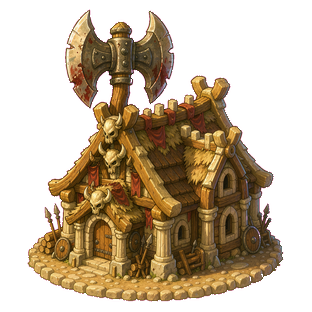
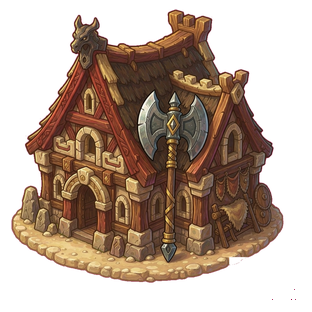
feat(art): 兵营V2去房屋化全量接入（11张放量含D档4张补做+5基准）

diff --git a/tools/remove-bg-artgen-magenta.py b/tools/remove-bg-artgen-magenta.py
@@ -1,0 +1,135 @@
+#!/usr/bin/env python3
+# -*- coding: utf-8 -*-
+"""ImageGen 暗玫红底专用抠底（V2 去房屋化批次）。
+
+背景事实：混元出图在纯品红提示下，本批实际出的是暗玫红底 (约 142,54,73)，
+与上一批亮玫红 (230,17,144) / 蓝紫 (48,65,154) 都不同。通用脚本
+remove-bg-artgen.py 的 near 容差 52 会把主体深棕木墙 (约 89,56,49) 误判为背景
+（g 通道仅差 2），形成白色破洞。本脚本改用严格 tol 的连通域抠底。
+
+三步：
+1) 从四边 flood fill，严格容差 tol 只挖连通到边缘的背景；
+2) 右下角水印（浅灰白/粉白，非玫红）连通块挖成透明；
+3) 裁包围盒 + 等比缩放居中 + 轻羽化。
+
+用法: python3 tools/remove-bg-artgen-magenta.py <input> <output> [target=312] [tol=24]
+纯 Pillow 实现。
+"""
+import sys
+from collections import deque
+from PIL import Image, ImageFilter
+
+
+def is_magenta_bg(r, g, b, bg, tol):
+    """暗玫红背景：接近采样色，且满足红显著高于绿的色相约束。"""
+    near = abs(r - bg[0]) < tol and abs(g - bg[1]) < tol and abs(b - bg[2]) < tol
+    magenta_hue = r > g + 45 and r > 100 and b > g
+    return near and magenta_hue
+
+
+def is_watermark(r, g, b, bg):
+    """右下角水印：浅灰白/粉白/浅粉字，或明显亮于暗玫红背景的杂色。
+
+    该脚本只在 x>0.76w,y>0.85h 的最右下角搜索，主体底座已缩到安全边距内，
+    此区域不会有主体像素，故可宽松判定，包括水印里的粉红描边。
+    """
+    light = r > 120 and g > 80 and b > 80 and max(r, g, b) - min(r, g, b) < 115
+    bright = r > 150 and g > 75 and b > 75  # 水印粉色描边/白字
+    return light or bright
+
+
+def remove_bg(src, dst, target=312, tol=24, closed=False):
+    im = Image.open(src).convert('RGB')
+    w, h = im.size
+    px = im.load()
+
+    # 1) 采样背景色
+    pts = [(2, 2), (w-3, 2), (2, h-3), (w-3, h-3),
+           (w//2, 2), (w//2, h-3), (2, h//2), (w-3, h//2)]
+    samples = [px[x, y] for x, y in pts]
+    bg = tuple(sum(c[i] for c in samples)//len(samples) for i in range(3))
+
+    # 1b) 封闭区背景清除（可选）：全图按严格玫红色相挖，专清铁环/拱洞等
+    #     不与边缘连通的背景残留。色相阈值 r-g>50 保证暖棕主体(r-g≈33)不被误伤。
+    closed_mask = bytearray(w*h)
+    if closed:
+        for y in range(h):
+            row = y*w
+            for x in range(w):
+                r, g, b = px[x, y]
+                if r > 125 and r - g > 50 and b > g and b > 60:
+                    closed_mask[row+x] = 1
+
+    # 2) 四边 flood fill 连通背景
+    visited = bytearray(w*h)
+    q = deque()
+    for x in range(w):
+        for y in (0, h-1):
+            i = y*w+x
+            if not visited[i] and is_magenta_bg(*px[x, y], bg, tol):
+                visited[i] = 1
+                q.append((x, y))
+    for y in range(h):
+        for x in (0, w-1):
+            i = y*w+x
+            if not visited[i] and is_magenta_bg(*px[x, y], bg, tol):
+                visited[i] = 1
+                q.append((x, y))
+    while q:
+        x, y = q.popleft()
+        for nx, ny in ((x+1, y), (x-1, y), (x, y+1), (x, y-1)):
+            if 0 <= nx < w and 0 <= ny < h:
+                i = ny*w+nx
+                if not visited[i] and is_magenta_bg(*px[nx, ny], bg, tol):
+                    visited[i] = 1
+                    q.append((nx, ny))
+
+    # 3) 右下角水印（浅灰白连通块），只清 x>0.76w,y>0.85h，面积上限防误伤
+    # 最右下角 x>0.76w,y>0.85h 内没有主体（底座已缩到安全边距内），
+    # 该区域所有非背景像素一律视为水印（含淡粉抗锯齿边），直接挖掉。
+    x0, y0 = int(w*0.76), int(h*0.85)
+    wm_mask = bytearray(w*h)
+    for y in range(y0, h):
+        row = y*w
+        for x in range(x0, w):
+            r, g, b = px[x, y]
+            if not is_magenta_bg(r, g, b, bg, 30):
+                wm_mask[row+x] = 1
+
+    # 4) alpha
+    alpha = Image.new('L', (w, h), 255)
+    ap = alpha.load()
+    for y in range(h):
+        row = y*w
+        for x in range(w):
+            if visited[row+x] or wm_mask[row+x] or closed_mask[row+x]:
+                ap[x, y] = 0
+    alpha = alpha.filter(ImageFilter.GaussianBlur(0.6))
+
+    # 5) 裁包围盒 + 等比缩放居中
+    bbox = alpha.getbbox()
+    if bbox:
+        im = im.crop(bbox)
+        alpha = alpha.crop(bbox)
+    cw, ch = im.size
+    scale = min(target/cw, target/ch) * 0.94
+    nw, nh = int(cw*scale), int(ch*scale)
+    im = im.resize((nw, nh), Image.LANCZOS)
+    alpha = alpha.resize((nw, nh), Image.LANCZOS)
+    out = Image.new('RGBA', (target, target), (0, 0, 0, 0))
+    out.paste(im, ((target-nw)//2, (target-nh)//2))
+    fa = Image.new('L', (target, target), 0)
+    fa.paste(alpha, ((target-nw)//2, (target-nh)//2))
+    out.putalpha(fa)
+    out.save(dst)
+
+
+if __name__ == '__main__':
+    if len(sys.argv) < 3:
+        print(__doc__)
+        sys.exit(1)
+    t = int(sys.argv[3]) if len(sys.argv) > 3 else 312
+    tol = int(sys.argv[4]) if len(sys.argv) > 4 else 24
+    closed = len(sys.argv) > 5 and sys.argv[5] == '--closed'
+    remove_bg(sys.argv[1], sys.argv[2], t, tol, closed)
+    print(f'{sys.argv[1]} -> {sys.argv[2]} (tol={tol}, closed={closed})')

diff --git a/tools/expand-barracks-v2-prompts.py b/tools/expand-barracks-v2-prompts.py
@@ -3,7 +3,7 @@
 """展开兵营 V2「去房屋化 + 形态精确化」方案的完整 prompt。
 用法:
   python tools/expand-barracks-v2-prompts.py <输出json路径> [编号,编号,...]
-默认展开方案里全部 12 张需出图的（A/B/C 档，D 档 02/12/15/27 不出图）。
+默认展开方案里全部 16 张（A/B/C 档 + 2026-11-26 追加的 D 档 4 张补做）。
 风格锚点段从方案文档逐字抽取，避免手抄漂移。
 """
 import json
@@ -14,9 +14,9 @@ from pathlib import Path
 ROOT = Path(__file__).resolve().parent.parent
 DOC = ROOT / "docs/art/ART-BARRACKS-V2-NONBUILDING-REDRAW.md"
 
-# 需出图的 12 座（D 档不动）
-SCENE_NUMS = ["11", "16", "19", "24", "37", "38", "39", "40"]  # 段1A
-BUILD_NUMS = ["09", "10", "23", "30"]                            # 段1
+# 需出图的 16 座（D 档 02/12/15/27 于 2026-11-26 追加补做）
+SCENE_NUMS = ["02", "11", "12", "15", "16", "19", "24", "27", "37", "38", "39", "40"]  # 段1A
+BUILD_NUMS = ["09", "10", "23", "30"]                                                        # 段1
 
 def block(doc, after):
     i = doc.index(after)
@@ -63,6 +63,10 @@ BUILD_FRAME = (
 # 槽位表
 DATA = {
     # --- 段1A 场景模板 ---
+    "02": dict(name="弓箭手-露天箭术靶场", SCENE="an open-air Western fantasy archery range with straw butt targets, arrow racks and a shooting mound, absolutely no stone tower and no roof", MAT="straw targets, timber arrow racks and rope", ACC="deep red", SIG="a giant recurve longbow planted upright at the center of the range", PROP="straw butt targets and quivers of arrows"),
+    "12": dict(name="战士-露天校场", SCENE="an open-air warriors training yard with a sand ground, weapon racks and rows of wooden practice dummies, absolutely no house and no roof", MAT="sand, timber practice dummies and iron weapons", ACC="brick red", SIG="a giant wooden training dummy holding a round shield and a short sword", PROP="weapon racks and stacked sandbags"),
+    "15": dict(name="卫兵-露天岗哨门", SCENE="an open-air Western fantasy guard checkpoint gate with a low stone base, timber gate posts, a broken portcullis and a small open sentry stand, absolutely no roof and no enclosed room", MAT="stone base, heavy timber and iron", ACC="limestone blue grey", SIG="a giant upright halberd planted beside a round guard shield at the gate", PROP="broken portcullis bars and spear racks"),
+    "27": dict(name="刽子手-露天刑台", SCENE="an open-air execution scaffold with a dark timber platform, crimson drapery, a chopping block and an axe rack, absolutely no house and no roof", MAT="dark timber, crimson cloth and iron", ACC="dark wine red", SIG="a gigantic broad executioner axe blade driven into the chopping block", PROP="iron chains and a second smaller axe rack"),
     "11": dict(name="骷髅兵-露天骨场", SCENE="open-air bone field on cracked earth with scattered crooked tombstones, bone piles and broken swords, absolutely no building", MAT="bleached bones, cracked earth and grey stone rubble", ACC="bone white", SIG="a gigantic skull with deeply sunken eye sockets rising from the bone pile", PROP="scattered bones and broken blades"),
     "16": dict(name="海盗-完整大帆船", SCENE="a complete large sailing ship beached on the ground with a full hull, a tall mast and a billowing square sail, a Western fantasy pirate vessel", MAT="old timber, rope and canvas sail", ACC="sea blue", SIG="a gigantic carved ship figurehead with a billowing main sail above it as the focal point", PROP="barrels and coiled rope"),
     "19": dict(name="长枪兵-驻扎营地", SCENE="a military encampment of canvas tents with a wooden palisade fence and a campfire, absolutely no stone tower", MAT="canvas tents, timber palisade and iron spear racks", ACC="warm bronze", SIG="a row of giant upright spears with level spearpoints planted at the camp center", PROP="a campfire and wooden crates"),

diff --git a/tools/install-barracks-v2.py b/tools/install-barracks-v2.py
@@ -1,0 +1,56 @@
+#!/usr/bin/env python3
+# -*- coding: utf-8 -*-
+"""把 V2 去房屋化批次的 16 张验收通过图覆盖到 assets/buildings/。
+
+16 张 = 5 张基准(11/16/19/38/40) + 7 张放量(09/10/23/24/30/37/39)
+       + 4 张 D 档补做(02/12/15/27)。其余 24 张保持工程现状不动。
+覆盖前先备份这 16 张原图到 .workbuddy/backups/pre-v2-nonbuilding-<日期>/。
+
+用法: python3 tools/install-barracks-v2.py <cutout_dir> <project_root>
+"""
+import shutil
+import sys
+from datetime import datetime
+from pathlib import Path
+from PIL import Image
+
+NUMS = ['02', '09', '10', '11', '12', '15', '16', '19',
+        '23', '24', '27', '30', '37', '38', '39', '40']
+
+
+def main():
+    cutout = Path(sys.argv[1])
+    root = Path(sys.argv[2])
+    assets = root / 'assets' / 'buildings'
+    backup = root / '.workbuddy' / 'backups' / ('pre-v2-nonbuilding-' + datetime.now().strftime('%Y%m%d'))
+    backup.mkdir(parents=True, exist_ok=True)
+
+    for n in NUMS:
+        src = cutout / f'barracks_unit_{n}.png'
+        assert src.exists(), f'缺少 {src}'
+        im = Image.open(src)
+        assert im.size == (312, 312) and im.mode == 'RGBA', f'{src} 规格错误 {im.size} {im.mode}'
+
+    backed = 0
+    for n in NUMS:
+        dst = assets / f'barracks_unit_{n}.png'
+        if dst.exists():
+            shutil.copy2(dst, backup / dst.name)
+            backed += 1
+
+    total = 0
+    for n in NUMS:
+        src = cutout / f'barracks_unit_{n}.png'
+        dst = assets / f'barracks_unit_{n}.png'
+        shutil.copy2(src, dst)
+        total += dst.stat().st_size
+        im = Image.open(dst)
+        assert im.size == (312, 312) and im.mode == 'RGBA', f'{dst} 覆盖后规格错误'
+
+    print(f'backed up {backed} originals -> {backup}')
+    print(f'installed {len(NUMS)} images -> {assets}')
+    print(f'installed size: {total/1024:.1f} KB')
+
+
+if __name__ == '__main__':
+    main()

diff --git a/docs/art/ART-BARRACKS-V2-NONBUILDING-REDRAW.md b/docs/art/ART-BARRACKS-V2-NONBUILDING-REDRAW.md
@@ -1,8 +1,9 @@
 # 占地之王 · 兵营 V2「去房屋化 + 形态精确化」定向重绘方案
 
-> 状态：**方案待确认**。16 座定向重绘，先出 5 张基准确认「去房屋化」效果，确认后放量 11 张。
+> 状态：**基准已确认（2026-11-25），放量中（2026-11-26）**。16 座定向重绘，5 张基准通过，剩余 7 张放量 + D 档 4 张补做。
 > 需求原话：「弓箭手、骑士（改为马厩）、狂战士（北欧风格）、骷髅兵（完全舍弃砖瓦房屋表现）、长枪兵（改为类似驻扎营地）、海盗（改为船样式）、卫兵、战士、战车（移除轮盘的内容）、驯兽师（舍弃砖瓦房屋）、刽子手、十字军（十字添加盾牌）、凤凰（完全舍弃砖瓦房屋）、幼龙（完全舍弃砖瓦房屋）、战争泰坦（完全舍弃砖瓦房屋）、古龙（西方龙，完全舍弃砖瓦房屋）」
-> 日期：2026-11-25
+> 补充指令（2026-11-26）：「放剩余7张和D档的4张也要重做」——D 档 4 张由「保持不变」改为「补做」，按同一去房屋化标准执行。
+> 日期：2026-11-25（2026-11-26 更新 D 档）
 > 前置（已交付、风格锚点来源）：`docs/art/ART-BARRACKS-WESTERN-FANTASY-REDRAW.md`（西幻去中式，0198836）
 
 ---
@@ -18,9 +19,9 @@
 | **A 档 · 完全舍弃砖瓦房屋** | 「完全舍弃砖瓦房屋表现」 | 11 / 37 / 38 / 39 / 40 | 零砖墙、零瓦顶、零封闭房屋；改为纯自然场景（露天骨场/树枝巢/岩洞蛋窟/巨岩台/西方龙窟） |
 | **B 档 · 舍弃房屋（保留围栏/构筑）** | 「舍弃砖瓦房屋」 | 24 | 去掉房屋，保留木栅+铁笼的野外兽栏 |
 | **C 档 · 形态精确化** | 「改为马厩/营地/船样式/移除轮盘/十字加盾牌/北欧风格」 | 09 / 19 / 16 / 23 / 30 / 10 | 主体形态按用户字面重做 |
-| **D 档 · 保持不变** | 无修改要求 | 02 / 12 / 15 / 27 | 沿用已交付西幻版，一个像素不动 |
+| **D 档 · 补做（2026-11-26 新增）** | 用户追加「D 档 4 张也要重做」 | 02 / 12 / 15 / 27 | 按同族冻结 + 去房屋化标准重做，形态升级为露天靶场/校场/岗哨门/刑台，不再是「保持不变」 |
 
-**先出 5 张跨档基准**：40 古龙（A 档，西方龙窟）、11 骷髅兵（A 档，露天骨场）、16 海盗（C 档，完整船形）、19 长枪兵（C 档，驻扎营地）、38 幼龙（A 档，岩洞蛋窟）。覆盖「去房屋化」的三种自然场景 + 两种形态替换，确认后放量剩余 11 张。
+**5 张跨档基准已出并通过**：40 古龙（A 档，西方龙窟）、11 骷髅兵（A 档，露天骨场）、16 海盗（C 档，完整船形）、19 长枪兵（C 档，驻扎营地）、38 幼龙（A 档，岩洞蛋窟）。2026-11-26 放量剩余 7 张 + D 档 4 张，共 11 张。
 
 ---
 
@@ -28,24 +29,24 @@
 
 | 编号 | 兵种 | 当前形态 | 用户要求 | 差距 |
 |---|---|---|---|---|
-| 02 | 弓箭手 | 石砌箭塔+锥顶 | 保持 | 无 |
+| 02 | 弓箭手 | 石砌箭塔+锥顶 | **补做：露天靶场** | 石塔+锥顶属封闭房屋，重做为露天箭术靶场（草靶+箭垛+巨型长弓） |
 | 09 | 骑士 | 石砌马厩+马蹄铁马头 | 改为马厩 | 已有马厩元素但仍是封闭房屋感，需强化开放式马棚/马匹 |
 | 10 | 狂战士 | 维京长屋+双刃斧 | 北欧风格 | 有维京感但金瓦过重，需强化龙骨饰/符文/兽皮/深木色 |
 | 11 | 骷髅兵 | 骨白哥特教堂（石墙+尖顶+拱窗） | **完全舍弃砖瓦房屋** | 重做：封闭建筑→露天骨场 |
-| 12 | 战士 | 木栅训练场 | 保持 | 无 |
-| 15 | 卫兵 | 石门楼+闸栅+长戟 | 保持 | 无 |
+| 12 | 战士 | 木栅训练场 | **补做：露天校场** | 强化沙地校场+兵器架+木人桩阵，去封闭感 |
+| 15 | 卫兵 | 石门楼+闸栅+长戟 | **补做：露天岗哨门** | 石门楼改开放式城门关卡+岗亭，无屋顶，巨型长戟更突出 |
 | 16 | 海盗 | 翻覆船壳作顶+桅杆旗 | 改为船样式 | 重做：翻覆船顶→完整船身+桅杆+帆 |
 | 19 | 长枪兵 | 方石塔+三矛尖 | 改为驻扎营地 | 重做：石塔→帐篷营栅+枪架 |
 | 23 | 战车 | 罗马竞技场+巨型车轮 | 移除轮盘内容 | 保留竞技场，去掉巨型车轮，改用战车/旗帜为特征物 |
 | 24 | 驯兽师 | 多层石木屋+铁栏兽笼 | 舍弃砖瓦房屋 | 重做：房屋→纯野外兽栏（保留铁笼） |
-| 27 | 刽子手 | 高木台+暗红布幔+斧刃 | 保持 | 无 |
+| 27 | 刽子手 | 高木台+暗红布幔+斧刃 | **补做：露天刑台** | 强化断头台+斧架+血色木台，归类露天场景，去小屋感 |
 | 30 | 十字军 | 石堡+墙上十字盾浮雕 | 十字添加盾牌 | 强化：墙面浮雕→独立巨型十字盾牌 |
 | 37 | 凤凰 | 石塔+火焰蛋 | **完全舍弃砖瓦房屋** | 重做：石塔→纯树枝巨巢 |
 | 38 | 幼龙 | 石塔+绿蛋 | **完全舍弃砖瓦房屋** | 重做：石塔→纯岩洞蛋窟 |
 | 39 | 战争泰坦 | 西式石屋+石拳 | **完全舍弃砖瓦房屋** | 重做：石屋→纯巨岩台+断柱+石拳 |
 | 40 | 古龙 | 石砌龙殿+龙头石雕 | 西方龙 + **完全舍弃砖瓦房屋** | 重做：龙殿→纯龙窟（龙骨拱+龙蛋+西式龙头骸骨） |
 
-**评审结论：A/B/C 档重做，D 档通过。** 依据用户明确的形态指令，不做主观发挥。
+**评审结论：A/B/C 档重做，D 档原判通过；2026-11-26 用户追加指令后 D 档 4 张一并补做。** 依据用户明确的形态指令，不做主观发挥。
 
 ---
 
@@ -111,21 +112,21 @@ house, building, cottage, cabin, brick wall, stone wall, masonry wall, pitched r
 > 模板归属按「形态本身是否露天」定，不严格按档位字母：
 > - **段 1A 场景模板 + 去房屋 Negative**：11 / 16 / 19 / 24 / 37 / 38 / 39 / 40（8 座。含 C 档的 16 船、19 营地——船与帐篷营地本就是露天场景，不是 house）
 > - **段 1 建筑模板 + 原 Negative**：09 马厩 / 10 北欧长屋 / 23 竞技场 / 30 石堡（4 座）
-> - **D 档不出图**：02 / 12 / 15 / 27
+> - **D 档补做出图**：02 / 12 / 15 / 27（露天靶场/校场/岗哨门/刑台，走段 1A 场景模板）
 
 | # | 兵种 | 档 | 主体场景（改写要点） | 巨型特征物 | 识别色 |
 |---|---|---|---|---|---|
-| 02 | 弓箭手 | D | 保持不变（石砌箭塔+锥顶） | 巨型长弓 | 深红 |
+| 02 | 弓箭手 | D·补做 | **露天箭术靶场**：草靶+箭垛+箭筒，无石塔无屋顶 | 巨型长弓 | 深红 |
 | 09 | 骑士 | C | 开放式木构马厩：马棚隔栏+拴马桩+草料槽+马匹，**保留石基** | 巨型马蹄铁+马头 | 骑士蓝 |
 | 10 | 狂战士 | C | 北欧维京营地：深色粗木+龙骨屋脊饰+符文石+兽皮兽骨，去金瓦 | 巨型双刃战斧 | 暗红 |
 | 11 | 骷髅兵 | A | **露天骨场**：无墙无顶，散落墓碑+骨堆+断剑，地面骨白碎石 | 巨型骷髅头（眼窝深凹） | 骨白 |
-| 12 | 战士 | D | 保持不变（木栅训练场） | 木人桩 | 砖红 |
-| 15 | 卫兵 | D | 保持不变（石门楼+长戟） | 巨型长戟 | 石灰蓝 |
+| 12 | 战士 | D·补做 | **露天校场**：沙地+兵器架+木人桩阵，无房屋 | 巨型木人桩（持剑盾） | 砖红 |
+| 15 | 卫兵 | D·补做 | **露天岗哨门**：开放式城门关卡+岗亭+闸栅，无屋顶 | 巨型长戟+圆盾 | 石灰蓝 |
 | 16 | 海盗 | C | **完整船形**：陆地上的大帆船（船身+桅杆+张开的风帆+船首像），非翻覆船顶 | 巨型船首像/主帆（去掉原船锚主特征） | 海蓝 |
 | 19 | 长枪兵 | C | **驻扎营地**：军用帐篷群+木栅营墙+篝火+枪架，无石塔 | 一排竖立的巨型长枪（枪尖齐平） | 青铜 |
 | 23 | 战车 | C | 罗马竞技场保留（沙地+看台+拱门），**移除巨型车轮** | 巨型罗马战车整车+高扬蓝旗 | 战红 |
 | 24 | 驯兽师 | B | **纯野外兽栏**：木桩栅栏+铁笼+铁链+鞍具，无房屋无屋顶 | 巨型弯曲兽角 | 土橙 |
-| 27 | 刽子手 | D | 保持不变（高木台+斧刃） | 巨型斧刃 | 暗酒红 |
+| 27 | 刽子手 | D·补做 | **露天刑台**：断头台+斧架+暗红木台，无房屋 | 巨型斧刃 | 暗酒红 |
 | 30 | 十字军 | C | 石堡保留，**墙上十字浮雕改为独立巨型十字盾牌**立在堡前 | 巨型十字盾（白底红十字） | 圣白金+红 |
 | 37 | 凤凰 | A | **纯树枝巨巢**：悬崖边巨巢+火焰羽饰+炭火，无石墙无瓦顶 | 巢中巨型火纹蛋+火焰羽冠 | 暖橙红 |
 | 38 | 幼龙 | A | **纯岩洞蛋窟**：天然岩石凹窟+藤蔓+金光，无砖瓦无房屋 | 洞口巨型龙鳞蛋（翠绿带金纹） | 翠绿+金 |
@@ -141,9 +142,10 @@ house, building, cottage, cabin, brick wall, stone wall, masonry wall, pitched r
 | 批次 | 数量 | 内容 | 校验 |
 |---|---|---|---|
 | 基准 | 5 | 40 龙窟 / 11 骨场 / 16 船 / 19 营地 / 38 蛋窟 | 出图→抠底→拼版→**用户确认去房屋化是否到位** |
-| 放量 | 11 | 09 / 10 / 23 / 24 / 30 / 37 / 39 + D 档不动（02/12/15/27 不出图，直接沿用） | 每批拼版 + 10% 缩略图 + 立绘呼应检查 |
+| 放量 | 7 | 09 / 10 / 23 / 24 / 30 / 37 / 39 | 每批拼版 + 10% 缩略图 + 立绘呼应检查 |
+| D 档补做 | 4 | 02 / 12 / 15 / 27（2026-11-26 用户追加） | 同上去房屋化验收 |
 
-- 实际出图 5+7=12 张（16 座里 4 座 D 档不动），成本 ≈ 60–120 积分。
+- 实际出图 5+7+4=16 张（16 座全量重做），成本 ≈ 80–160 积分。
 - 体积：换图不换尺寸，40 张合计仍约 4.5MB，无预算风险。
 - 工程零改动：文件名 / manifest key / 白名单 / 接线 / 测试全不动。
 - 备份：覆盖前整目录备份到 `.workbuddy/backups/pre-v2-nonbuilding-YYYYMMDD/`。
@@ -155,7 +157,7 @@ house, building, cottage, cabin, brick wall, stone wall, masonry wall, pitched r
 1. **A 档去房屋（最高优先级）**：11/37/38/39/40 五张放大检查，不得出现砖墙、瓦顶、封闭房屋、窗、门；必须是露天骨场/巢/岩窟/岩台/龙窟。
 2. **西方龙明确**：40 号龙头必须有角、张口、翼骨等西式龙特征，非中式龙（沿用 Negative 的 Chinese dragon 排除）。
 3. **C 档形态到位**：09 马厩（马匹元素）、16 完整船（帆+船身）、19 营地（帐篷）、23 无巨型车轮、30 独立十字盾、10 北欧深色木+龙骨饰。
-4. **D 档零改动**：02/12/15/27 四张 MD5 与交付前一致。
+4. **D 档补做到位**：02 露天靶场（无石塔）/12 露天校场（无房屋）/15 露天岗哨门（无屋顶）/27 露天刑台（无小屋），四张均放大确认去房屋化。
 5. **去中式不回潮**（沿用上一轮）：任何图不得重新长出翘角飞檐/宝塔。
 6. 规格 40/40、剪影可辨、缩略图、风格统一、无水印/背景残留。
 7. 回归 123/123。
@@ -163,7 +165,7 @@ house, building, cottage, cabin, brick wall, stone wall, masonry wall, pitched r
 ## 八、待确认项
 
 **假设：仅用户点名的 16 座重绘，其余 24 座（含上一轮已交付的 14 座）保持不动（待确认）**
-**假设：D 档 4 座（02/12/15/27）因用户未提修改要求，判定为保持、不出图（待确认）**
-**假设：先出 5 张基准确认「去房屋化」效果，再放量 7 张（待确认）**
-**假设：A 档保留椭圆碎石底座作为同族锚（待确认）**
+**假设：D 档 4 座按「露天场景化」补做——用户 2026-11-26 只说「也要重做」未给具体形态，沿用 V2 去房屋化主线（待确认）**
+**假设：5 张基准已确认，剩余 7 张 + D 档 4 张一次性放量（已执行）**
+**假设：A 档及 D 档补做保留椭圆碎石底座作为同族锚（待确认）**
 **假设：文件名/manifest/接线/测试零改动，只换 PNG（待确认）**
